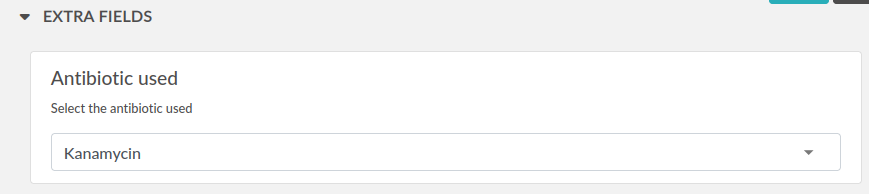
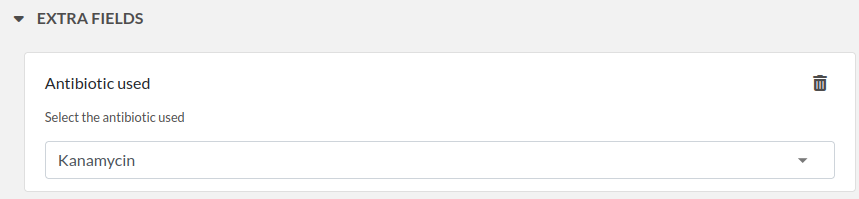
change the metadata doc

diff --git a/doc/metadata.rst b/doc/metadata.rst
@@ -24,7 +24,17 @@ Click "Add field", a modal window will appear.
 
 If you want your new inputs to appear in groups, you can click the + button next to "Group" to add a new group. Or select an existing group from the dropdown menu.
 
-Then you can select which type of input you want for your extra field. Let's select "Dropdown menu" for our example. Enter a name for this input, optionally a description and at least 2 entries to select from.
+Then you can select which type of input you want for your extra field. You are free to add as many as you want, of different types. It is most useful to define them in the Templates, so when creating an entry, all the required inputs are already present.
+
+
+Example with dropdown menu
+--------------------------
+
+Let's select "Dropdown menu" for our example. Enter a name for this input, optionally a description and at least 2 entries to select from.
+
+.. image:: img/extra-fields-dropdown.png
+    :align: center
+    :alt: Extra field dropdown
 
 Then click save and the new input (extra field) will appear right under the "Save" and "Save and go back" buttons:
 
@@ -32,7 +42,21 @@ Then click save and the new input (extra field) will appear right under the "Sav
     :align: center
     :alt: Extra field view
 
-You are free to add as many as you want, of different types. It is most useful to define them in the Templates, so when creating an entry, all the required inputs are already present.
+Example with number and units
+-----------------------------
+
+In our second example, we will add an input of type `number` with several choices for the units. This is how it looks like:
+
+
+.. image:: img/extra-fields-number.png
+    :align: center
+    :alt: Extra field number
+
+Then click save and the generated input will accept only numbers, and a dropdown menu with a list of available units will be appended to the input:
+
+.. image:: img/extra-fields-number-view.png
+    :align: center
+    :alt: Extra field number view
 
 Advanced use
 ============
@@ -49,11 +73,7 @@ In order to assign a particular position to the inputs, use the `position` key, 
 
 Removing an input
 -----------------
-If you wish to remove an input, click the icon on the left of it and select "Remove" from the menu. Alternatively, switch the JSON editor in "Code" view and remove the corresponding part of the JSON.
-
-.. image:: img/delete-extra-field.png
-    :align: center
-    :alt: Delete extra field
+If you wish to remove an input, click the trash icon present in edit mode on the right side of the input block.
 
 Masking the main text
 ---------------------
